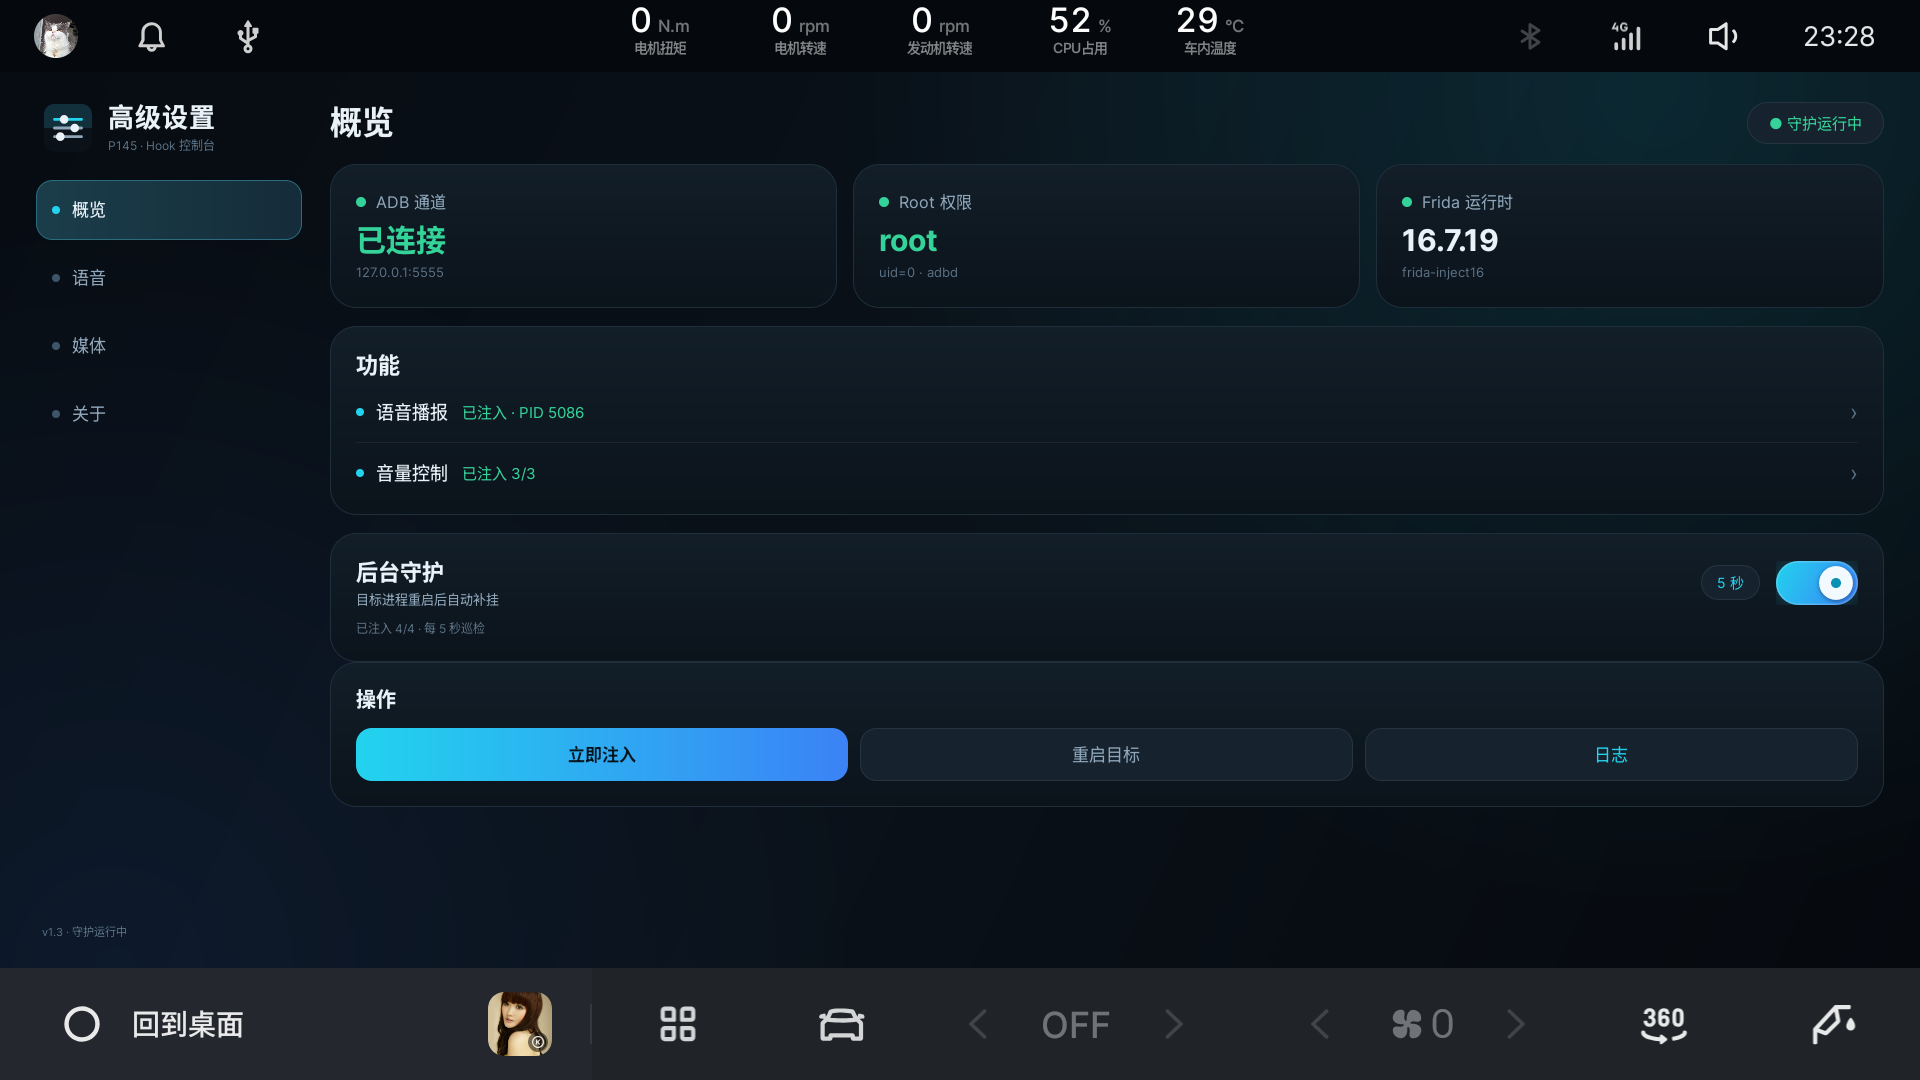
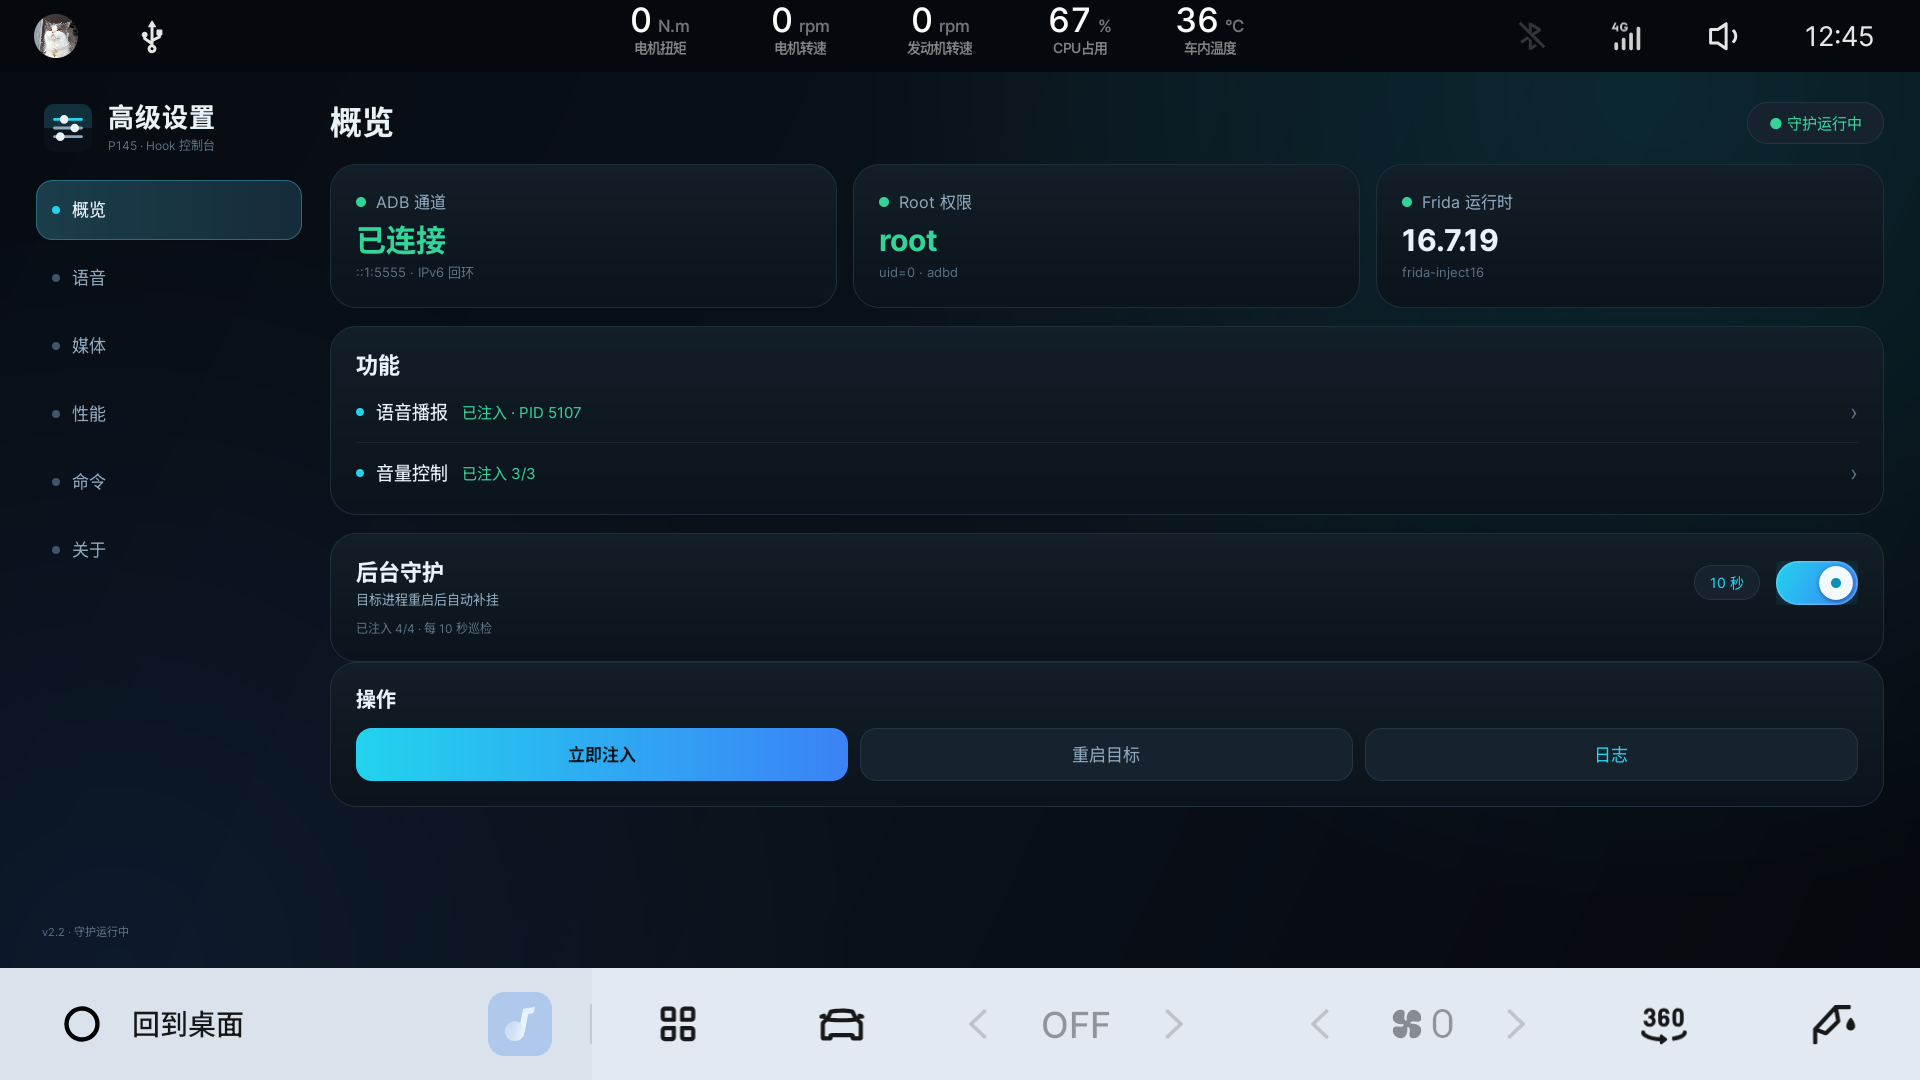
feat(ui): 概览页显示真实 adb 通道（IPv6 ::1 / IPv4 回退）
AdbClient.open() 成功时记录 lastHost，界面据此显示：
  ::1:5555 · IPv6 回环
  127.0.0.1:5555 · IPv4 回环（回退时）
关于页的通道行也同步。版本 2.2。

diff --git a/src/com/p145/advancedsettings/MainActivity.java b/src/com/p145/advancedsettings/MainActivity.java
@@ -505,6 +505,18 @@ public class MainActivity extends Activity {
         });
     }
 
+    /** 显示实际使用的 adb 通道：IPv6 回环优先，回退 IPv4 */
+    private String adbChannel() {
+        String h = com.p145.advancedsettings.core.AdbClient.lastHost;
+        if (h == null || h.isEmpty()) {
+            return "::1 / 127.0.0.1 :5555";
+        }
+        if ("::1".equals(h)) {
+            return "::1:5555 · IPv6 回环";
+        }
+        return h + ":5555 · IPv4 回环";
+    }
+
     private void updateBootState() {
         try {
             boolean on = Prefs.getBool(this, K_BOOT_ON, false);
@@ -798,9 +810,9 @@ public class MainActivity extends Activity {
 
     private String aboutText() {
         return "包名　com.p145.advancedsettings\n"
-                + "版本　2.1 (versionCode 12)\n"
+                + "版本　2.2 (versionCode 13)\n"
                 + "签名　平台公签 platform.pk8 / x509.pem\n"
-                + "通道　127.0.0.1:5555（adbd root）\n"
+                + "通道　" + adbChannel() + "（adbd root）\n"
                 + "运行时　frida-inject 16.7.19\n"
                 + "工作目录　/data/local/p145adv\n"
                 + "状态文件　/data/local/p145adv/status.json\n"
@@ -865,7 +877,7 @@ public class MainActivity extends Activity {
         dotAdb.setBackgroundResource(st.adbOk ? R.drawable.dot_ok : R.drawable.dot_err);
         tvAdb.setText(st.adbOk ? "已连接" : "未连接");
         tvAdb.setTextColor(color(st.adbOk ? R.color.ok : R.color.err));
-        tvAdbSub.setText(st.adbOk ? "127.0.0.1:5555" : (st.lastError.isEmpty() ? "adbd" : st.lastError));
+        tvAdbSub.setText(st.adbOk ? adbChannel() : (st.lastError.isEmpty() ? "adbd" : st.lastError));
 
         dotRoot.setBackgroundResource(st.rootOk ? R.drawable.dot_ok : R.drawable.dot_err);
         tvRoot.setText(st.rootOk ? "root" : "受限");
@@ -937,7 +949,7 @@ public class MainActivity extends Activity {
                 + Prefs.getInt(this, Prefs.K_INTERVAL, HookManager.DEFAULT_INTERVAL) + " 秒巡检"
                 : "守护已关闭或未启动");
 
-        tvFooter.setText(running ? "v2.1 · 守护运行中" : "v2.1 · 守护已停止");
+        tvFooter.setText(running ? "v2.2 · 守护运行中" : "v2.2 · 守护已停止");
 
         List<String> logs = HookManager.getLog();
         StringBuilder tail = new StringBuilder();

diff --git a/src/com/p145/advancedsettings/core/AdbClient.java b/src/com/p145/advancedsettings/core/AdbClient.java
@@ -16,6 +16,8 @@ import java.net.SocketTimeoutException;
 public final class AdbClient {
 
     public static final String HOST = "127.0.0.1";
+    /** 最近一次成功连接用的地址（::1 或 127.0.0.1），供界面显示真实通道 */
+    public static volatile String lastHost = "";
     public static final int PORT = 5555;
 
     private static final int CMD_CNXN = 0x4e584e43;
@@ -63,6 +65,7 @@ public final class AdbClient {
                 s.connect(new InetSocketAddress(InetAddress.getByName(host), PORT), 1500);
                 s.setSoTimeout(800);
                 s.setTcpNoDelay(true);
+                lastHost = host;
                 return s;
             } catch (IOException e) {
                 last = e;

diff --git a/docs/P145车机改造记录.md b/docs/P145车机改造记录.md
@@ -2255,3 +2255,35 @@ selectPage("overview", false);
 `K_PAGE` 的写入逻辑保留（切页时仍记录），只是启动时不再读取 —— 以后要做"记住上次页面"随时能恢复。
 
 验证：切到性能页 → `am force-stop` → 重启 → 回到概览 ✅
+
+---
+
+## 22. 概览页显示真实 adb 通道（v2.2）
+
+概览页 ADB 卡片以前写死 `127.0.0.1:5555`，但 `AdbClient` 实际是 **`::1`（IPv6）优先**。
+现在 `AdbClient.open()` 连上就把用的 host 记到 `lastHost`：
+
+```java
+public static volatile String lastHost = "";   // "::1" 或 "127.0.0.1"
+...
+s.connect(new InetSocketAddress(InetAddress.getByName(host), PORT), 1500);
+lastHost = host;
+```
+
+界面按真实值渲染：
+
+```
+ADB 通道
+已连接
+::1:5555 · IPv6 回环        ← 实测显示
+```
+
+回退到 IPv4 时会显示 `127.0.0.1:5555 · IPv4 回环`；
+还没连过时显示 `::1 / 127.0.0.1 :5555`。关于页的「通道」那行也改成同一来源。
+
+实测抓包确认（25 秒采样，按 App uid 过滤）：
+
+```
+IPv6 ::1:E6DC → ::1:5555  ESTABLISHED  uid 10060   命中 5 次
+IPv4 127.0.0.1 → 127.0.0.1:5555                    命中 0 次
+```
